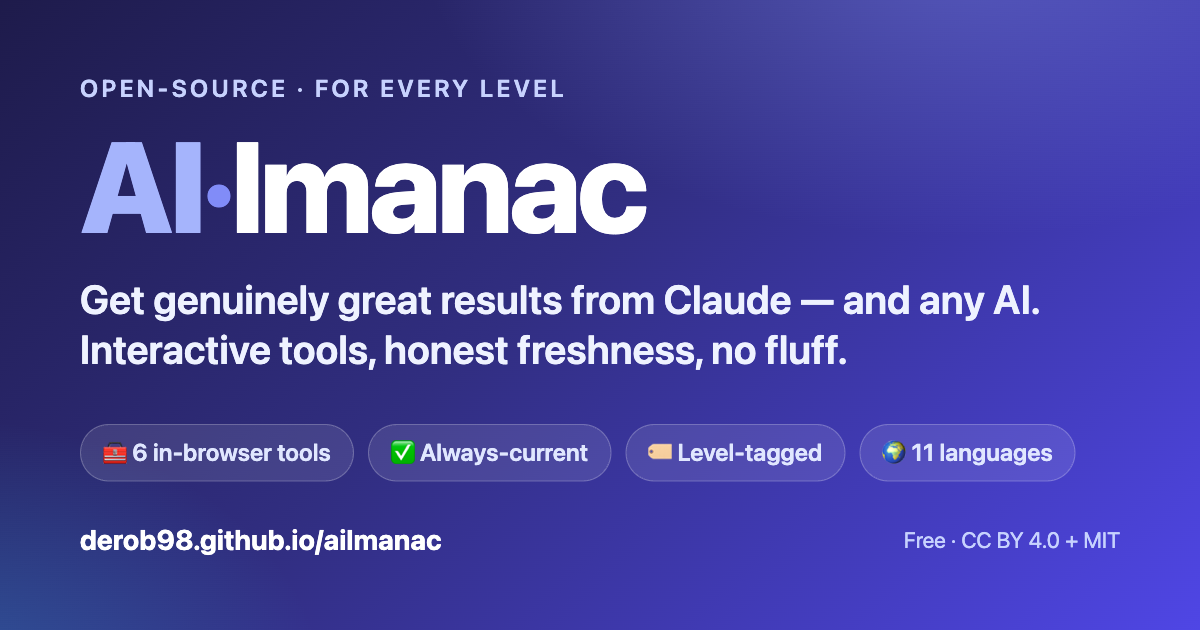
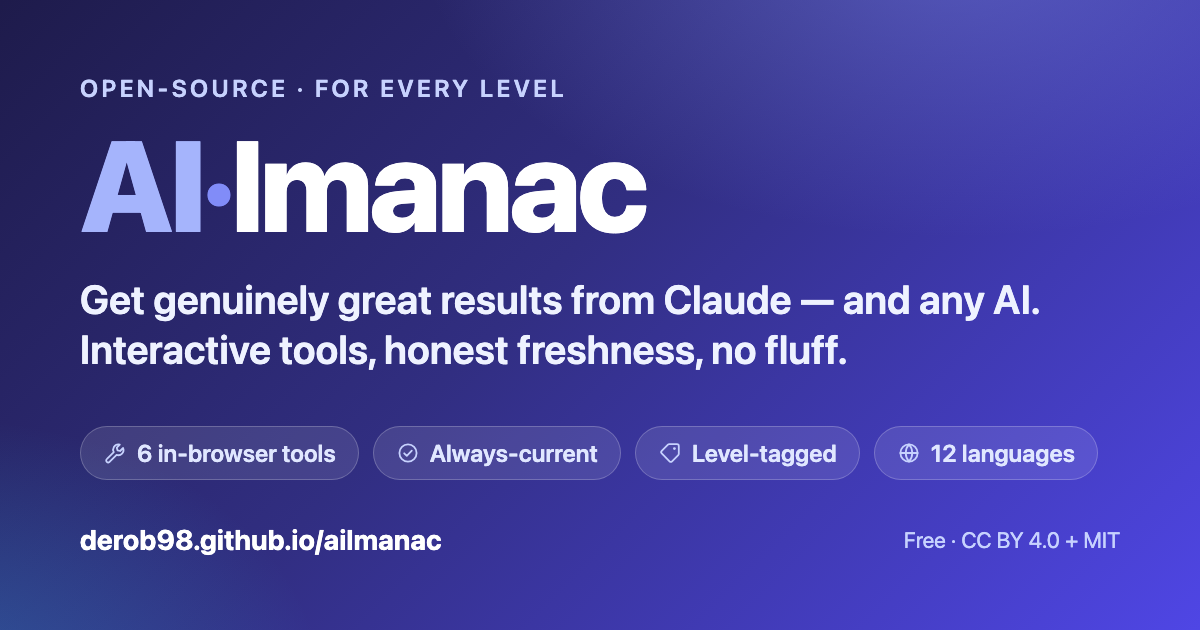
docs: refresh screenshots and social card for the new design
- README screenshots re-shot from the current build in dark mode (the site's
  default), captured through Playwright with a software GL backend so the
  hero renders as visitors see it. Chrome's plain --screenshot flag gives a
  light-mode page with a blank canvas.
- Social card: the four chips carried colour emoji, which clash with the
  site's drawn icon set and render differently on every platform that unfurls
  the card. Replaced with inline SVG in the same house style.
- Social card said '11 languages'; the config ships 12 locales and the README
  badge already said 12.

diff --git a/static/og-card.html b/static/og-card.html
@@ -22,7 +22,12 @@
   .tag{ font-size:40px; font-weight:600; line-height:1.25; margin-top:26px; max-width:980px; color:#eef2ff; }
   .chips{ display:flex; gap:14px; flex-wrap:wrap; margin-top:8px; }
   .chip{ font-size:24px; font-weight:600; padding:12px 22px; border-radius:999px;
-         background:rgba(255,255,255,.10); border:1px solid rgba(255,255,255,.22); color:#e0e7ff; }
+         background:rgba(255,255,255,.10); border:1px solid rgba(255,255,255,.22); color:#e0e7ff;
+         display:inline-flex; align-items:center; gap:10px; }
+  /* Marks are drawn, not typed: colour emoji would clash with the site's
+     monochrome icon set and render differently on every platform that
+     unfurls this card. */
+  .chip svg{ width:24px; height:24px; flex:0 0 auto; }
   .foot{ display:flex; align-items:center; justify-content:space-between; }
   .url{ font-size:28px; font-weight:700; color:#fff; }
   .meta{ font-size:22px; color:#c7d2fe; }
@@ -36,10 +41,10 @@
       <div class="tag">Get genuinely great results from Claude — and any AI. Interactive tools, honest freshness, no fluff.</div>
     </div>
     <div class="chips">
-      <span class="chip">🧰 6 in-browser tools</span>
-      <span class="chip">✅ Always-current</span>
-      <span class="chip">🏷 Level-tagged</span>
-      <span class="chip">🌍 11 languages</span>
+      <span class="chip"><svg viewBox="0 0 24 24" fill="none" stroke="#c7d2fe" stroke-width="1.8" stroke-linecap="round" stroke-linejoin="round" aria-hidden="true"><path d="M15.4 3.4a5.2 5.2 0 0 0-4.6 7.7L4 17.9a2 2 0 1 0 2.8 2.8l6.8-6.8a5.2 5.2 0 0 0 6.5-6.9l-3 3-2.6-.7-.7-2.6 3-3a5.2 5.2 0 0 0-1.4-.3z"/></svg>6 in-browser tools</span>
+      <span class="chip"><svg viewBox="0 0 24 24" fill="none" stroke="#c7d2fe" stroke-width="1.8" stroke-linecap="round" stroke-linejoin="round" aria-hidden="true"><circle cx="12" cy="12" r="8.6"/><path d="M8.2 12.3l2.6 2.6 5-5.2"/></svg>Always-current</span>
+      <span class="chip"><svg viewBox="0 0 24 24" fill="none" stroke="#c7d2fe" stroke-width="1.8" stroke-linecap="round" stroke-linejoin="round" aria-hidden="true"><path d="M11.2 3.2H19a1.8 1.8 0 0 1 1.8 1.8v7.8a1.8 1.8 0 0 1-.53 1.27l-6.2 6.2a1.8 1.8 0 0 1-2.54 0l-7.8-7.8a1.8 1.8 0 0 1 0-2.54l6.2-6.2A1.8 1.8 0 0 1 11.2 3.2z"/><circle cx="16.4" cy="7.6" r="1.4" fill="#c7d2fe" stroke="none"/></svg>Level-tagged</span>
+      <span class="chip"><svg viewBox="0 0 24 24" fill="none" stroke="#c7d2fe" stroke-width="1.8" stroke-linecap="round" stroke-linejoin="round" aria-hidden="true"><circle cx="12" cy="12" r="8.6"/><path d="M3.4 12h17.2"/><path d="M12 3.4a13 13 0 0 1 0 17.2 13 13 0 0 1 0-17.2z"/></svg>12 languages</span>
     </div>
     <div class="foot">
       <div class="url">derob98.github.io/ailmanac</div>
